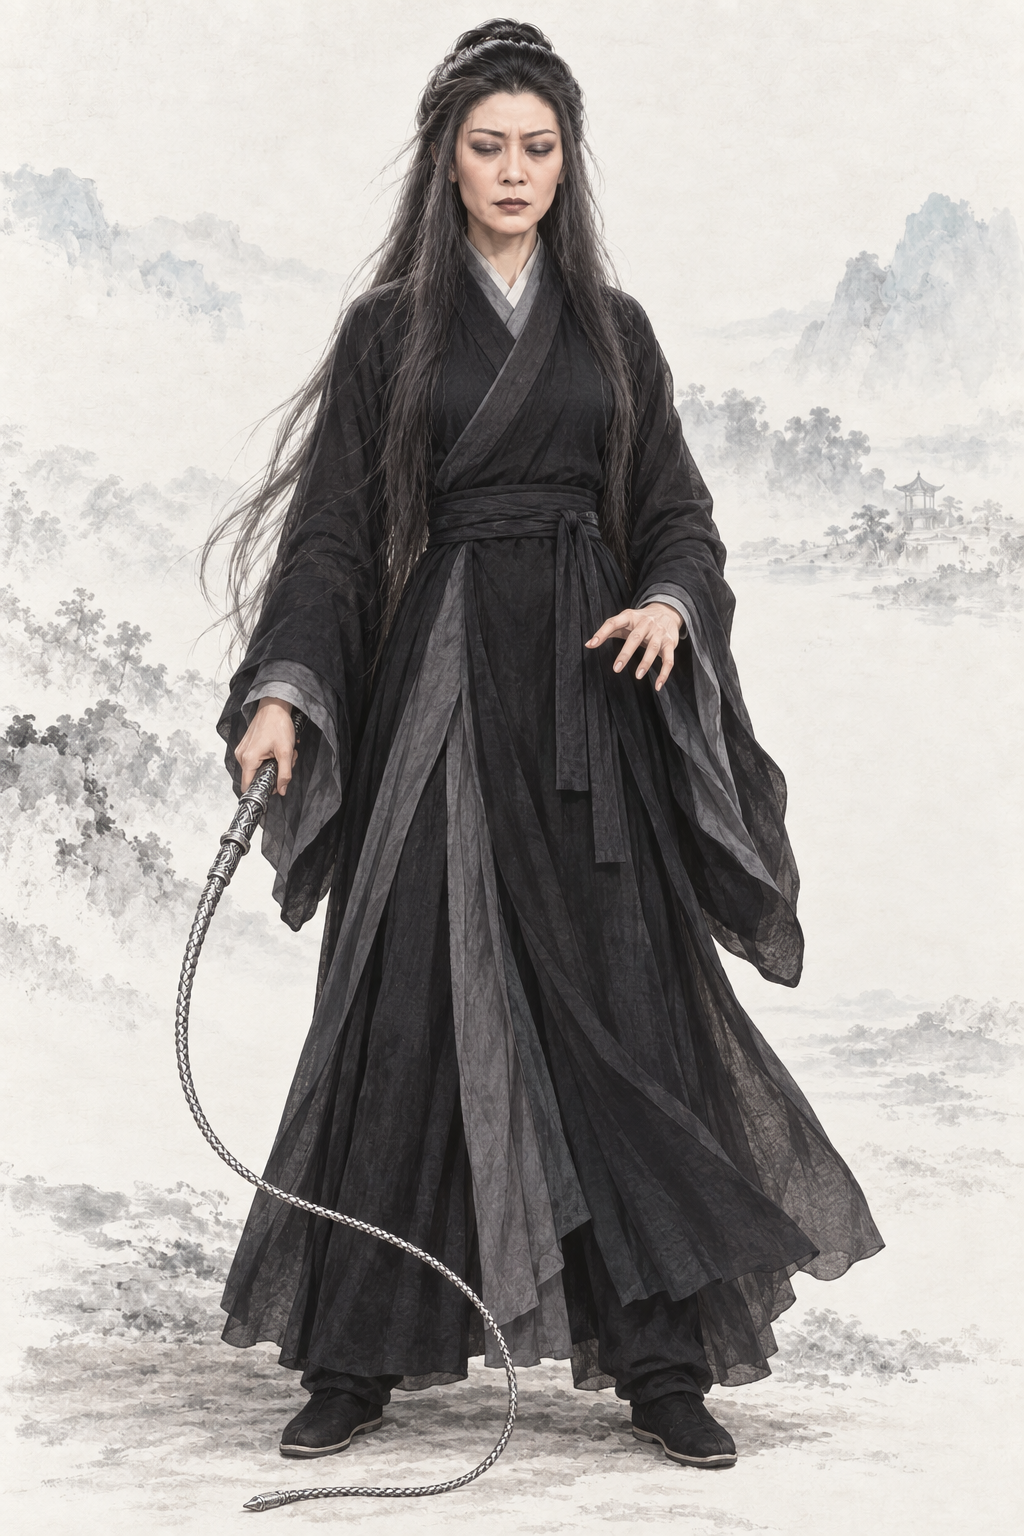
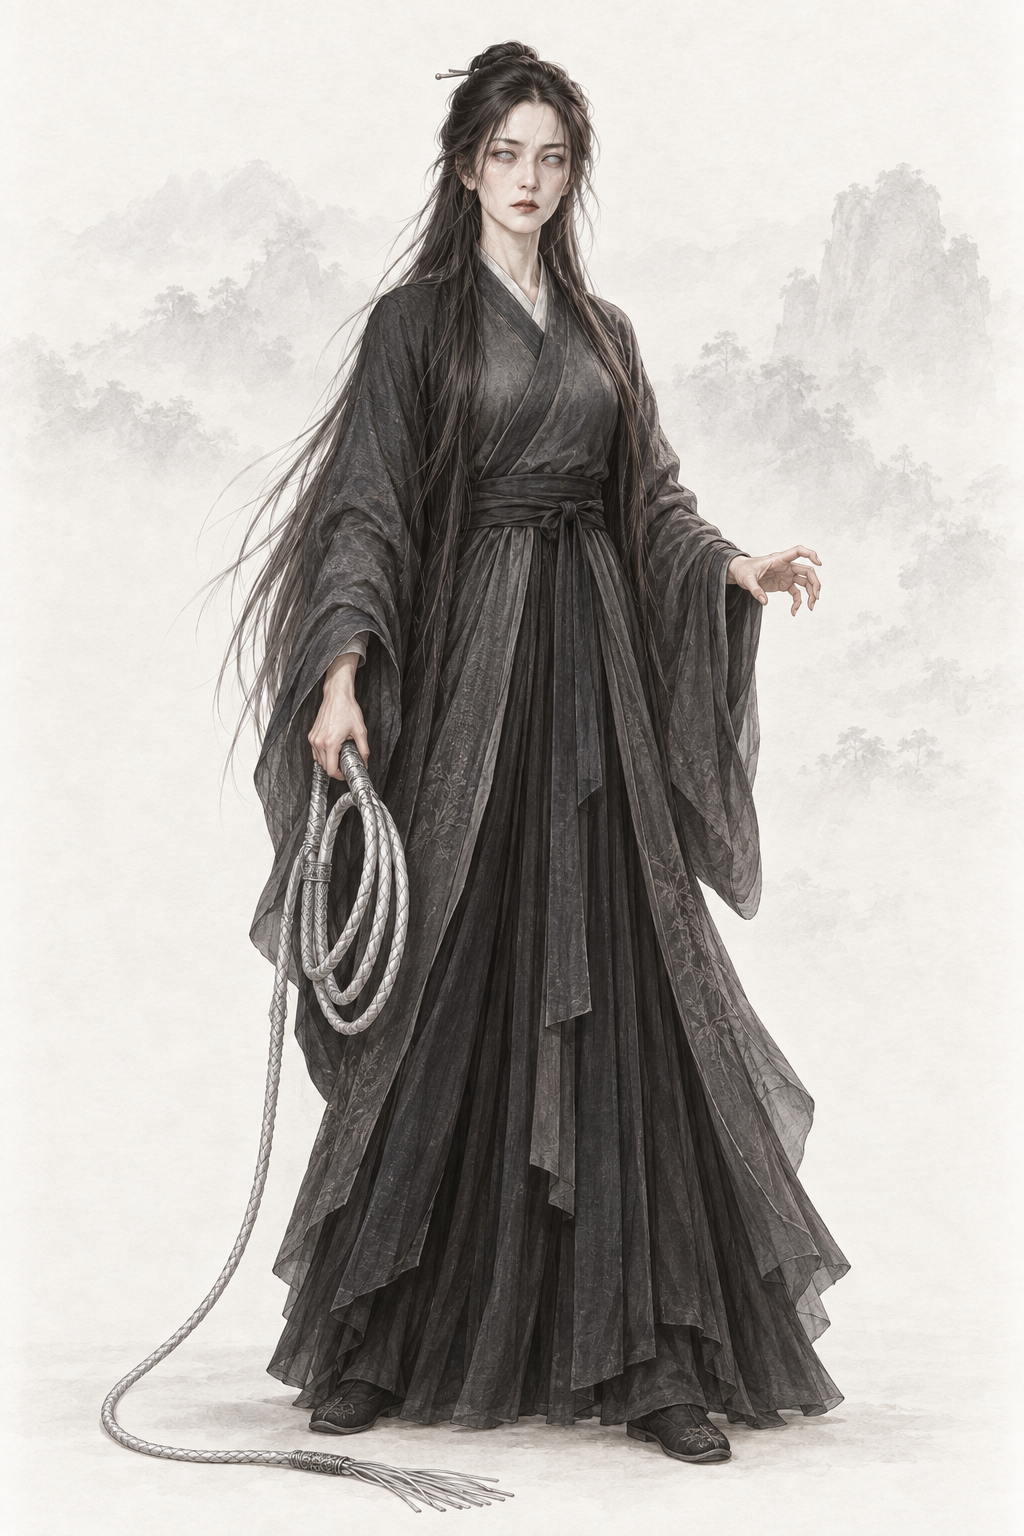
assets(character): por_npc_meichaofeng__ch02_prime_blind_base 梅超风（codex）
AR-31：重要人物加经典造型文字描写（原创面孔，不写演员名、不传剧照）

diff --git a/assets/default/prompts/characters/ch02-shediao/npc_meichaofeng.md b/assets/default/prompts/characters/ch02-shediao/npc_meichaofeng.md
@@ -18,11 +18,32 @@ realism_revision: user_identity_pose_20261001
 redo_reason: "面容源自 1983 版剧照（肖像风险），按原著“铁尸”盲眼长发、白蟒鞭的形象用文字原创重做"
 reference_upload:
 - assets/default/baseline/character/female/ref_npc_wangyuyan__ch01_base01.png
+codex_prompt_rev: 2026-10-02
 ---
 
 # 梅超风 · 人物写实修正
 
 ## Gemini 提示词
+
+> 2026-10-02 AR-31 改写（1 号出图员，codex exec · image_gen 出图）：重要人物借鉴经典影视造型，只写成文字——不写演员名、不上传剧照、原创面孔；主角和美人画得好看，去 AI 味，禁止幼态。出图时上传两张同性别基线立绘作画风参考（放在最后）。审核组原稿保留在下一节作历史。
+
+```text
+生成一张 2:3 竖幅全身人物立绘：单人、单一视角、完整全身——头顶、双手、双脚和手中器物的两端都在画面内，四周留出自然空白；人物站姿自然，身体基本朝向正面，头部端正（不歪头、不仰不俯），镜头平视。
+【画风】写实手绘古风人物插画，与本项目写实武侠角色立绘同一画风：人物是完整、坚实、比例真实的写实绘画；皮肤有真实质感——细小毛孔、细纹、晒痕、轻微色斑和自然的左右不对称，不磨皮、不油亮；头发有一根根的发丝和自然碎发；布料看得出经纬纹理、厚薄和自然垂坠的褶皱，带穿用过的轻微旧化，但完整不破烂；整体设色低饱和、沉稳；柔和的自然光从左上方照来，明暗过渡自然，不打舞台光、轮廓光或美颜柔光。这是手绘写实绘画，不是照片，不是三维渲染，也不是动漫或游戏 CG。
+【背景】不透明的暖浅灰色纸底，只在远处有极淡的水墨远山和薄雾，大面积留白；人物与背景明暗分明、轮廓边缘干净完整（后续要自动抠图），水墨和纸纹只在背景里，不侵入人物和衣服；脚下只有很淡的一点接触阴影。
+【人物】梅超风，《射雕英雄传》黑风双煞之一“铁尸”，黄药师的叛徒弟子，陈玄风已死、双目已盲的阶段；阴狠孤绝，却仍念师恩。
+【年龄与体态】约四十岁的成熟女子，身形瘦削修长，肩臂有长年练九阴白骨爪的筋骨。成年女性的身体比例（约 7 头身），衣着完整端庄、不透明、不暴露、不性感化。
+【经典造型】借鉴经典武侠影视里这个角色深入人心的造型，只取发型、装束、配色、标志道具、气质和脸型类型，用原创面孔画出来，不像任何真实演员：铁尸梅超风——披散的长黑发、一身黑衣，双目失明，阴森冷厉之中带着几分凄美。
+【面容】瓜子脸、颧骨略高、面颊瘦削，眉毛细长上挑，鼻梁挺、薄唇；双目失明——眼珠灰白无神、眼皮半垂；脸色苍白中透青，眼角有细纹；神情阴森冷厉（面貌细节原著待考，此为原创扩展）。五官本是清秀的美人底子，只是神情阴森。
+【发式】乌黑长发披散到腰，只有一缕在脑后随意束起。
+【服饰】深灰黑色交领右衽长衫、黑色长裙（内有长裤），黑布腰带，软底鞋。
+【道具】右手握一条长长的银白色长鞭（白蟒鞭），鞭身盘成几圈、鞭梢拖在地上，完整入画；左手五指微屈成爪，但指甲正常、不长出利爪。
+【姿态与神情】站姿警觉，像在凝神听四周的动静（头部仍端正）；冷厉阴森。
+【不要】画面里不要任何文字、题款、印章、签名、水印、边框、分格或多视图；不要第二个人；不要幼态（童颜、娃娃脸、婴儿肥、儿童或少年身材、大头小身）；不要塑料感皮肤、磨皮美颜、网红脸（尖下巴大眼高鼻的模板脸）、过度对称、浓妆、偶像式打光、蜡像感；不要照片质感、三维渲染或动漫大眼；不要歪头、斜镜头；不要多指、缺指（设定的伤残除外）、手与器物粘连或悬空；汉式交领必须右衽（穿着者的左襟压在右襟上），不要左衽（设定为少数民族服制的除外），不要水平镜像；不要现代物品、发光特效、法阵或能量光。不要明亮正常的眼睛；不要鬼怪化的长指甲或骷髅；不要血腥；不要年轻少女面孔。
+【画风基线】随提示词上传的参考图里，最后两张是本项目的立绘画风基线：只参考它们的画风、用色、光线、质感和暖浅灰纸底加淡水墨的背景处理，整体画风必须与它们一致——精细写实的数字手绘插画，不是油画，不要厚涂笔触和画布纹理。参考图只取画风、光线、质感和背景处理，不取长相：不要照搬基线图里人物的长相、年龄、发型、服饰和姿势。
+```
+
+## 审核组 Gemini 提示词（2026-10-02 AR-30 重审稿；AR-31 改写前，历史，不再用于出图）
 
 > 2026-10-02 重要人物立绘重审（A 组，`tools/agents/reports/REVIEW-portraits-A-ch00-04.md`）：**整体重出**。面容源自 1983 版剧照（肖像风险），按原著“铁尸”盲眼长发、白蟒鞭的形象用文字原创重做。
 > 本条不上传任何参考图（`reference_upload: []`）；frontmatter 的 `references` 与本节以下内容是旧出图管线的历史记录，不再用于出图。
